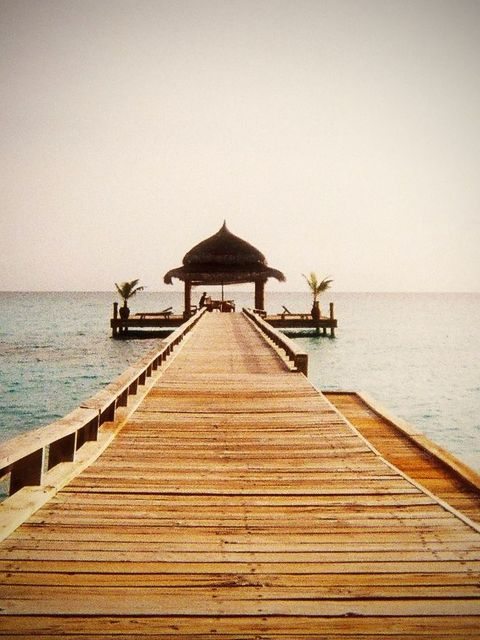
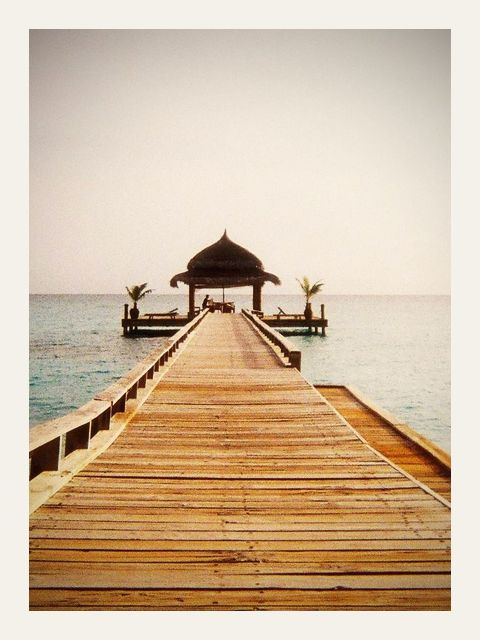
Website mockups: frames printed with the app's borders
The roll's frames share one border (white), as a roll does in the app; the profile's
and feed's rolls each have their own: white, black, or a slide mount with the film's
name and the frame number on the card.

Claude-Session: https://claude.ai/code/session_011Mfs9xPNG9gkJtLChCWijL

diff --git a/server/tools/render_mockups.py b/server/tools/render_mockups.py
@@ -1,5 +1,6 @@
 #!/usr/bin/env python3
-"""Photos for the website's phone mockups, each through the film its roll is shot on.
+"""Photos for the website's phone mockups, each through the film its roll is shot on,
+printed with one of the app's borders (white, black, or a slide mount).
 
 The sources are Unsplash photos (Unsplash licence), fetched through picsum.photos by id,
 cropped to the app's 3:4 tiles and run through the same film pipeline as the film
@@ -13,7 +14,7 @@ import urllib.request
 from pathlib import Path
 
 import numpy as np
-from PIL import Image
+from PIL import Image, ImageDraw, ImageFont
 
 sys.path.insert(0, str(Path(__file__).parent))
 import render_previews as films   # noqa: E402
@@ -22,6 +23,13 @@ OUT = Path(__file__).resolve().parents[1] / 'public/mock'
 W, H = 480, 640
 
 # (file name, picsum id, film id, photographer, Unsplash page[, crop focus 0-1])
+# The border each roll was printed with (RetroCam/PrintBorder.swift: white, black, slide).
+BORDER = {'roll': 'white', 'profile-1': 'white', 'profile-2': 'black', 'profile-3': 'slide', 'profile-4': 'white',
+          'feed-1': 'black', 'feed-2': 'white', 'feed-3': 'slide', 'feed-4': 'black'}
+FILM_NAMES = {'golden100': 'GOLDEN 100', 'classic400': 'CLASSIC 400', 'dusk800': 'DUSK 800', 'pan50': 'PAN 50',
+              'north400': 'NORTH 400', 'noir': 'NOIR 400', 'tide200': 'TIDE 200', 'silver100': 'SILVER 100'}
+FONT = '/usr/share/fonts/truetype/dejavu/DejaVuSansMono-Bold.ttf'
+
 PHOTOS = [
     # The roll: a coast weekend on GOLDEN 100.
     ('roll-1', 14, 'golden100', 'Paul Jarvis', 'https://unsplash.com/photos/IQ1kOQTJrOQ'),
@@ -49,13 +57,53 @@ def fetch(pid):
         return Image.open(io.BytesIO(r.read())).convert('RGB')
 
 
-def tile(img, focus=0.5):
-    """Crop to 3:4 portrait at the tile size, around `focus` (0 left, 1 right)."""
+def crop(img, size, focus=0.5):
+    """Crop to the shape of `size` around `focus` (0 left, 1 right), then scale to it."""
     w, h = img.size
-    cw = round(h * W / H)
-    x = round((w - cw) * focus)
-    img = img.crop((x, 0, x + cw, h))
-    return img.resize((W, H), Image.LANCZOS)
+    tw, th = size
+    if w / h > tw / th:
+        cw = round(h * tw / th)
+        x = round((w - cw) * focus)
+        img = img.crop((x, 0, x + cw, h))
+    else:
+        ch = round(w * th / tw)
+        y = (h - ch) // 2
+        img = img.crop((0, y, w, y + ch))
+    return img.resize(size, Image.LANCZOS)
+
+
+def window(border):
+    """Where the picture sits in a W x H print with this border."""
+    if border in ('white', 'black'):
+        m = round(W * 0.06)
+        return (m, m, W - m, H - m)
+    if border == 'slide':
+        return (round(W * 0.12), round(H * 0.15), W - round(W * 0.12), H - round(H * 0.15))
+    return (0, 0, W, H)
+
+
+def print_with(border, picture, film, number):
+    """The picture on its print: a white or black border, or a slide mount with the film's
+    name and the frame number printed on the card."""
+    if border not in ('white', 'black', 'slide'):
+        return picture
+    box = window(border)
+    if border == 'slide':
+        card = Image.new('RGB', (W, H))
+        d = ImageDraw.Draw(card)
+        for y in range(H):   # the mount's card, a little darker toward the bottom
+            t = y / (H - 1)
+            d.line([(0, y), (W, y)], fill=tuple(round(a + (b - a) * t) for a, b in zip((236, 227, 207), (221, 209, 182))))
+        font = ImageFont.truetype(FONT, 22)
+        ink = (58, 45, 31)
+        d.text((box[0], round(H * 0.06)), FILM_NAMES.get(film, film.upper()), font=font, fill=ink)
+        num = f'{number:02d}'
+        d.text((box[2] - d.textlength(num, font=font), round(H * 0.06)), num, font=font, fill=(111, 96, 76))
+        d.rounded_rectangle((box[0] - 2, box[1] - 2, box[2] + 1, box[3] + 1), 6, fill=(150, 135, 110))
+    else:
+        card = Image.new('RGB', (W, H), (244, 241, 234) if border == 'white' else (10, 10, 10))
+    card.paste(picture, box[:2])
+    return card
 
 
 def main(cache=None):
@@ -63,10 +111,14 @@ def main(cache=None):
     by_id = {f['id']: f for f in films.read_films()}
     for name, pid, film, _, _, *focus in PHOTOS:
         src = Image.open(Path(cache) / f'{pid}.jpg').convert('RGB') if cache else fetch(pid)
-        arr = np.asarray(tile(src, *focus)).astype(np.float32) / 255
+        border = BORDER.get(name, BORDER.get(name.split('-')[0]))
+        box = window(border)
+        arr = np.asarray(crop(src, (box[2] - box[0], box[3] - box[1]), *focus)).astype(np.float32) / 255
         out = np.clip(films.apply(by_id[film], arr), 0, 1)
-        Image.fromarray((out * 255 + 0.5).astype(np.uint8)).save(OUT / f'{name}.jpg', quality=80, optimize=True, progressive=True)
-        print('wrote', name, film)
+        picture = Image.fromarray((out * 255 + 0.5).astype(np.uint8))
+        number = int(name.split('-')[1]) if name.startswith('roll') else 12
+        print_with(border, picture, film, number).save(OUT / f'{name}.jpg', quality=80, optimize=True, progressive=True)
+        print('wrote', name, film, border)
 
 
 if __name__ == '__main__':
